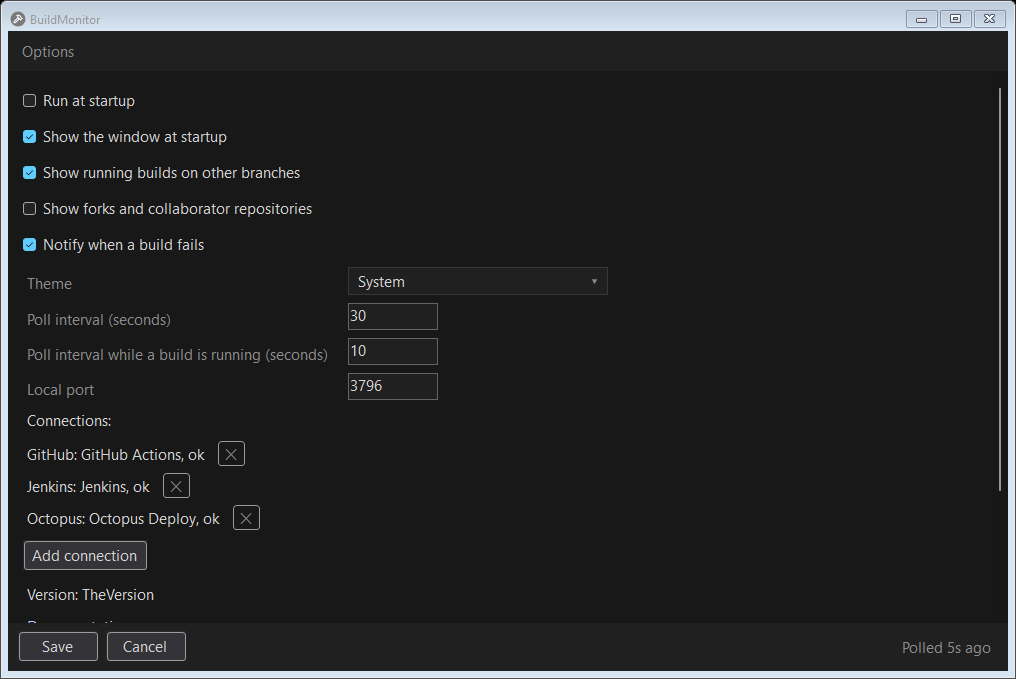
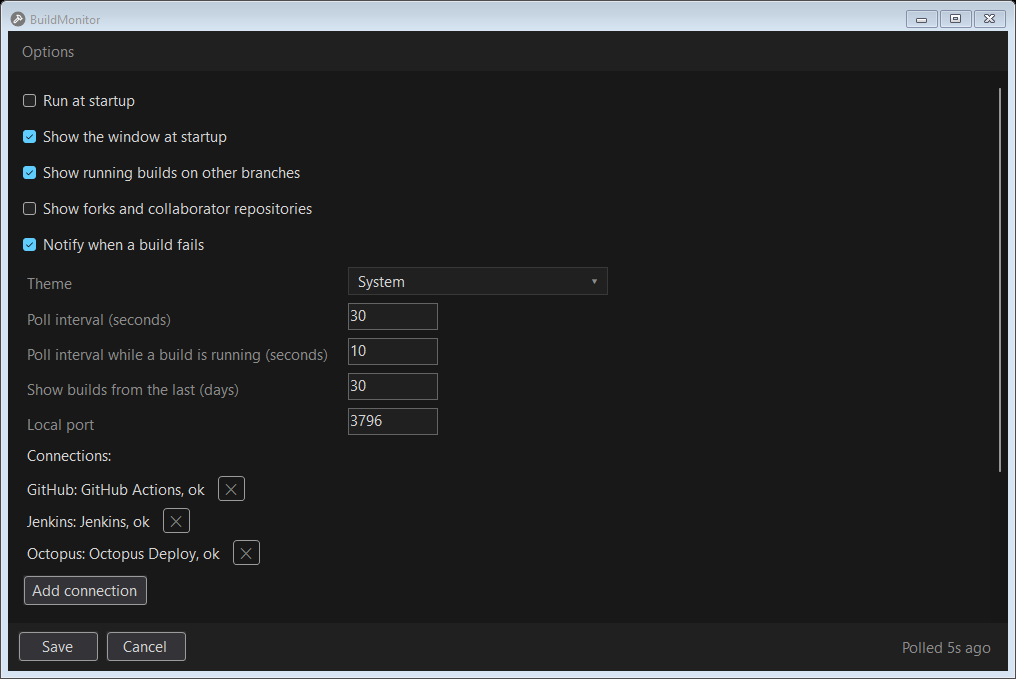
Show only builds from the last 30 days, with an option for how many
Finished builds older than the limit are left out; running and queued builds
always show. Options gains "Show builds from the last (days)", 1 to 365.

Where the service can filter by date the limit goes in the request, so a poll
returns less: GitHub (created), Azure DevOps (minTime), GitLab (updatedAfter,
updated_after over REST) and TeamCity (queuedDate). The rest drop older builds
as they arrive, which also covers a response served from a cached ETag. The date
sent is the start of a UTC day, so a URL and its ETag hold all day.

A settings file written before the option existed read it as 0, as the generated
reader sets a missing init property to its type's default, so it falls back to 30.

Changed region(s): [[0.0, 0.6186, 0.2441, 0.8969], [0.0305, 0.5567, 0.2441, 0.5876], [0.3356, 0.5567, 0.3967, 0.6495]]

diff --git a/src/BuildMonitor.Tests/PollerTests.cs b/src/BuildMonitor.Tests/PollerTests.cs
@@ -2,13 +2,18 @@ public class PollerTests
 {
     const string runsUrl = "https://api.github.com/repos/VerifyTests/DiffEngine/actions/runs?per_page=5";
 
+    // The poller asks for runs since the history cutoff, a date in the query, so a canned response
+    // is keyed by the path, which the handler falls back to, and a request is matched by its start.
+    static string Path(string url) =>
+        url[..url.IndexOf('?')];
+
     static FakeHttpHandler GitHubHandler() =>
         new FakeHttpHandler()
             .Get("https://api.github.com/user/repos?per_page=100&sort=pushed&affiliation=owner,organization_member&page=1",
                 """[{"full_name":"VerifyTests/DiffEngine","html_url":"https://github.com/VerifyTests/DiffEngine","archived":false,"disabled":false,"pushed_at":"2099-01-01T00:00:00Z"}]""")
             .Get("https://api.github.com/repos/VerifyTests/DiffEngine/actions/workflows?per_page=100",
                 """{"total_count":1,"workflows":[{"id":10,"name":"Test","path":".github/workflows/test.yml","state":"active"}]}""")
-            .Map("GET", runsUrl,
+            .Map("GET", Path(runsUrl),
                 """
                 {"total_count":2,"workflow_runs":[
                   {"id":500,"workflow_id":10,"run_number":2,"status":"in_progress","head_branch":"main","html_url":"https://github.com/x/500","created_at":"2026-01-01T11:56:00Z","updated_at":"2026-01-01T11:57:00Z","run_started_at":"2026-01-01T11:57:00Z","pull_requests":[]},
@@ -35,7 +40,8 @@ public class PollerTests
     public async Task ASuccessfulPollAppliesBuildsAndRecordsDurations()
     {
         var (host, secrets, history) = Setup();
-        var poller = new ConnectionPoller(Fixtures.GitHub.Id, host, secrets, history, GitHubHandler(), null);
+        // The runs are from the day of Fixtures.Now, so the clock is too, or they fall outside the history.
+        var poller = new ConnectionPoller(Fixtures.GitHub.Id, host, secrets, history, GitHubHandler(), null, () => Fixtures.Now);
 
         var health = await poller.PollOnce(Cancel.None);
 
@@ -64,15 +70,17 @@ public class PollerTests
     {
         var (host, secrets, history) = Setup();
         var handler = GitHubHandler();
-        var poller = new ConnectionPoller(Fixtures.GitHub.Id, host, secrets, history, handler, null);
+        var poller = new ConnectionPoller(Fixtures.GitHub.Id, host, secrets, history, handler, null, () => Fixtures.Now);
         await poller.PollOnce(Cancel.None);
 
         // An unchanged repository answers an empty 304; the rows come from the body the first poll kept.
-        handler.Map("GET", runsUrl, "", HttpStatusCode.NotModified);
+        handler.Map("GET", Path(runsUrl), "", HttpStatusCode.NotModified);
         var health = await poller.PollOnce(Cancel.None);
 
         await Assert.That(health).IsEqualTo(ConnectionHealth.Ok);
-        await Assert.That(handler.Requests[^1]).IsEqualTo($"GET {runsUrl}\n  If-None-Match: \"runs\"");
+        // The cutoff is a day, so the second poll asks for the same URL and revalidates it.
+        await Assert.That(handler.Requests[^1]).StartsWith($"GET {runsUrl}&created=");
+        await Assert.That(handler.Requests[^1]).EndsWith("\n  If-None-Match: \"runs\"");
         await Assert.That(host.State.Builds.Length).IsEqualTo(2);
     }
 
@@ -204,9 +212,9 @@ public class PollerTests
                 """{"total_count":1,"workflows":[{"id":1,"name":"Busy","path":".github/workflows/busy.yml","state":"active"}]}""")
             .Get("https://api.github.com/repos/VerifyTests/Quiet/actions/workflows?per_page=100",
                 """{"total_count":1,"workflows":[{"id":2,"name":"Quiet","path":".github/workflows/quiet.yml","state":"active"}]}""")
-            .Get(busyRuns,
+            .Get(Path(busyRuns),
                 """{"total_count":1,"workflow_runs":[{"id":10,"workflow_id":1,"run_number":5,"status":"in_progress","head_branch":"main","html_url":"https://github.com/x/10","created_at":"2026-01-01T11:59:00Z","updated_at":"2026-01-01T11:59:30Z","run_started_at":"2026-01-01T11:59:00Z","pull_requests":[]}]}""")
-            .Get(quietRuns,
+            .Get(Path(quietRuns),
                 """{"total_count":1,"workflow_runs":[{"id":20,"workflow_id":2,"run_number":3,"status":"completed","conclusion":"success","head_branch":"main","html_url":"https://github.com/x/20","created_at":"2025-12-31T12:00:00Z","updated_at":"2025-12-31T12:05:00Z","run_started_at":"2025-12-31T12:00:00Z","pull_requests":[]}]}""");
 
     static int Fetches(FakeHttpHandler handler, string url) =>
@@ -234,7 +242,7 @@ public class PollerTests
     public async Task AFailingRepositoryDoesNotHideTheOthers()
     {
         var (host, secrets, history) = Setup();
-        var handler = TwoRepositories().Map("GET", quietRuns, "boom", HttpStatusCode.InternalServerError);
+        var handler = TwoRepositories().Map("GET", Path(quietRuns), "boom", HttpStatusCode.InternalServerError);
         var poller = new ConnectionPoller(Fixtures.GitHub.Id, host, secrets, history, handler, null, () => Fixtures.Now);
 
         var health = await poller.PollOnce(Cancel.None);
@@ -248,7 +256,7 @@ public class PollerTests
     public async Task AFailingRepositoryBacksOffAlone()
     {
         var (host, secrets, history) = Setup();
-        var handler = TwoRepositories().Map("GET", quietRuns, "boom", HttpStatusCode.InternalServerError);
+        var handler = TwoRepositories().Map("GET", Path(quietRuns), "boom", HttpStatusCode.InternalServerError);
         var now = Fixtures.Now;
         var poller = new ConnectionPoller(Fixtures.GitHub.Id, host, secrets, history, handler, null, () => now);
         await poller.PollOnce(Cancel.None);

diff --git a/src/BuildMonitor.Core/Session/MonitorSession.cs b/src/BuildMonitor.Core/Session/MonitorSession.cs
@@ -357,6 +357,7 @@ static class MonitorSession
         values[FormFields.Theme] = settings.Theme.ToString();
         values[FormFields.PollInterval] = settings.PollIntervalSeconds.ToString();
         values[FormFields.RunningPollInterval] = settings.RunningPollIntervalSeconds.ToString();
+        values[FormFields.HistoryDays] = settings.HistoryDays.ToString();
         values[FormFields.Port] = settings.Port.ToString();
         return state with
         {
@@ -680,6 +681,10 @@ static class MonitorSession
     {
         var discovered = outcome.Pipelines.Select(_ => _.Id).ToHashSet();
         var previous = state.Builds.Where(_ => _.ConnectionId == connectionId).ToImmutableArray();
+        // Dropped here as well as left out of the request: for a service that can not filter by date,
+        // and for a response served from an ETag cached before the cutoff moved on.
+        var cutoff = HistoryCutoff.Of(now, state.Settings.HistoryDays);
+        var arrived = outcome.Builds.Where(_ => HistoryCutoff.Keeps(_, cutoff)).ToImmutableArray();
         var next = UpdateConnection(
             state,
             connectionId,
@@ -695,7 +700,7 @@ static class MonitorSession
         var notification = state.Notification;
         if (state.Settings.NotifyOnFailure)
         {
-            var news = outcome.Builds.Where(_ => !outcome.FirstFetch.Contains(_.PipelineId)).ToImmutableArray();
+            var news = arrived.Where(_ => !outcome.FirstFetch.Contains(_.PipelineId)).ToImmutableArray();
             notification = FailureDetector.Describe(FailureDetector.NewFailures(previous, news)) ?? notification;
         }
 
@@ -704,8 +709,8 @@ static class MonitorSession
             Builds =
             [
                 ..next.Builds.Where(_ => _.ConnectionId != connectionId),
-                ..previous.Where(_ => discovered.Contains(_.PipelineId) && !outcome.Fetched.Contains(_.PipelineId)),
-                ..outcome.Builds
+                ..previous.Where(_ => discovered.Contains(_.PipelineId) && !outcome.Fetched.Contains(_.PipelineId) && HistoryCutoff.Keeps(_, cutoff)),
+                ..arrived
             ],
             Notification = notification
         });

diff --git a/src/BuildMonitor.Core/Providers/GitLab/GitLabProvider.cs b/src/BuildMonitor.Core/Providers/GitLab/GitLabProvider.cs
@@ -68,6 +68,7 @@ sealed class GitLabProvider : ProviderBase
             chunk.Length.ToString(CultureInfo.InvariantCulture),
             "){nodes{id pipelines(first:",
             perPipeline.ToString(CultureInfo.InvariantCulture),
+            context.Since is { } since ? $",updatedAfter:\"{Iso(since)}\"" : "",
             "){nodes{",
             pipelineFields,
             "}}}}}");
@@ -106,10 +107,18 @@ sealed class GitLabProvider : ProviderBase
         return covered;
     }
 
+    /// <summary>
+    /// Updated rather than created, the one date both the GraphQL field and the REST listing take on
+    /// every supported GitLab, so a retry of an older pipeline still shows.
+    /// </summary>
+    static string Iso(DateTimeOffset since) =>
+        since.UtcDateTime.ToString("yyyy-MM-dd'T'HH:mm:ss'Z'", CultureInfo.InvariantCulture);
+
     static async Task<List<Build>> Rest(ProviderContext context, Pipeline pipeline, int perPipeline, Cancel cancel)
     {
         var builds = new List<Build>();
-        var runs = await context.Http.Get($"projects/{pipeline.Id}/pipelines?per_page={perPipeline}", GitLabContext.Default.ListGitLabPipeline, cancel);
+        var updated = context.Since is { } since ? $"&updated_after={Encode(Iso(since))}" : "";
+        var runs = await context.Http.Get($"projects/{pipeline.Id}/pipelines?per_page={perPipeline}{updated}", GitLabContext.Default.ListGitLabPipeline, cancel);
         foreach (var run in runs)
         {
             // The listing carries no timings; only a live run is worth the second call.

diff --git a/src/BuildMonitor.Core/Session/ScreenBuilder.cs b/src/BuildMonitor.Core/Session/ScreenBuilder.cs
@@ -224,8 +224,7 @@ static class ScreenBuilder
         var estimate = Estimator.Estimate(build, state.Medians);
         var (fraction, timing) = Progress.Compute(build, estimate, now);
         // Only the build that broke names anyone: on a pass or a run the name says nothing wrong.
-        var author = build.Status == BuildStatus.Failed &&
-                     build.Author is not null &&
+        var author = build is { Status: BuildStatus.Failed, Author: not null } &&
                      authors.TryGetValue(build.Author.Trim(), out var shown)
             ? shown
             : "";
@@ -382,6 +381,7 @@ static class ScreenBuilder
             new(FormFields.Theme, FieldKind.Select, "Theme", form.Value(FormFields.Theme), Options: Enum.GetNames<Theme>()),
             new(FormFields.PollInterval, FieldKind.Number, "Poll interval (seconds)", form.Value(FormFields.PollInterval)),
             new(FormFields.RunningPollInterval, FieldKind.Number, "Poll interval while a build is running (seconds)", form.Value(FormFields.RunningPollInterval)),
+            new(FormFields.HistoryDays, FieldKind.Number, "Show builds from the last (days)", form.Value(FormFields.HistoryDays), Hint: "Running and queued builds always show."),
             new(FormFields.Port, FieldKind.Number, "Local port", form.Value(FormFields.Port), Hint: "Used by the launcher and the MCP server. Takes effect after a restart."),
             new("connectionsLabel", FieldKind.Label, "Connections", "")
         };

diff --git a/src/BuildMonitor.Tests/HistoryCutoffTests.cs b/src/BuildMonitor.Tests/HistoryCutoffTests.cs
@@ -1,0 +1,29 @@
+public class HistoryCutoffTests
+{
+    static readonly DateTimeOffset now = new(2026, 9, 15, 16, 30, 0, TimeSpan.FromHours(10));
+
+    [Test]
+    public async Task StartOfTheUtcDay() =>
+        await Assert.That(HistoryCutoff.Of(now, 30)).IsEqualTo(new(2026, 8, 16, 0, 0, 0, TimeSpan.Zero));
+
+    [Test]
+    [Arguments("Succeeded", -40, false)]
+    [Arguments("Failed", -40, false)]
+    [Arguments("Succeeded", -10, true)]
+    [Arguments("Running", -40, true)]
+    [Arguments("Queued", -40, true)]
+    public async Task KeepsRecentAndActive(string name, int days, bool kept)
+    {
+        var status = Enum.Parse<BuildStatus>(name);
+        var at = now.AddDays(days);
+        var build = Build(status, at, status is BuildStatus.Running or BuildStatus.Queued ? null : at);
+        await Assert.That(HistoryCutoff.Keeps(build, HistoryCutoff.Of(now, 30))).IsEqualTo(kept);
+    }
+
+    [Test]
+    public async Task KeepsABuildWithNoTime() =>
+        await Assert.That(HistoryCutoff.Keeps(Build(BuildStatus.Succeeded, null, null), HistoryCutoff.Of(now, 30))).IsTrue();
+
+    static Build Build(BuildStatus status, DateTimeOffset? started, DateTimeOffset? finished) =>
+        new("connection", "pipeline", "build.yml", "repo", "main", "1", status, null, started, started, finished, null, "https://example.com/1", null, null, null, null, null, null, false, false, "");
+}

diff --git a/src/BuildMonitor.Core/Providers/TeamCity/TeamCityProvider.cs b/src/BuildMonitor.Core/Providers/TeamCity/TeamCityProvider.cs
@@ -42,8 +42,13 @@ sealed class TeamCityProvider : ProviderBase
     public override async Task<IReadOnlyList<Build>> FetchBuilds(ProviderContext context, IReadOnlyList<Pipeline> pipelines, int perPipeline, Cancel cancel)
     {
         var byType = pipelines.ToDictionary(_ => _.Id);
+        // Queued rather than started, which sinceDate counts from, so a build still in the queue is
+        // not left out. The + of the offset is escaped, or it arrives as a space.
+        var queued = context.Since is { } since
+            ? $",queuedDate:(date:{since.UtcDateTime.ToString("yyyyMMdd'T'HHmmss", CultureInfo.InvariantCulture)}%2B0000,condition:after)"
+            : "";
         var response = await context.Http.Get(
-            $"buildTypes?locator=affectedProject:(id:{Encode(Project(context))})&fields=buildType(id,builds($locator(branch:default:any,state:any,canceled:any,failedToStart:any,count:{perPipeline}),{buildFields}))",
+            $"buildTypes?locator=affectedProject:(id:{Encode(Project(context))})&fields=buildType(id,builds($locator(branch:default:any,state:any,canceled:any,failedToStart:any,count:{perPipeline}{queued}),{buildFields}))",
             TeamCityContext.Default.TeamCityBuildTypes,
             cancel);
         var builds = new List<Build>();

diff --git a/src/BuildMonitor.Core/Providers/AzureDevOps/AzureDevOpsProvider.cs b/src/BuildMonitor.Core/Providers/AzureDevOps/AzureDevOpsProvider.cs
@@ -52,8 +52,12 @@ sealed class AzureDevOpsProvider : ProviderBase
             var byDefinition = project.ToDictionary(_ => long.Parse(_.Id[(_.Id.LastIndexOf('/') + 1)..]));
             // Per definition rather than a total: $top filled with the busiest definitions and hid
             // the quiet ones of a project with more than a few dozen.
+            // Queue time, which queueTimeDescending orders by, and what minTime filters on under it.
+            var minTime = context.Since is { } since
+                ? $"&minTime={Encode(since.ToString("O", CultureInfo.InvariantCulture))}"
+                : "";
             var response = await context.Http.Get(
-                $"{Encode(project.Key)}/_apis/build/builds?definitions={string.Join(',', byDefinition.Keys)}&maxBuildsPerDefinition={perPipeline}&queryOrder=queueTimeDescending&{apiVersion}",
+                $"{Encode(project.Key)}/_apis/build/builds?definitions={string.Join(',', byDefinition.Keys)}&maxBuildsPerDefinition={perPipeline}&queryOrder=queueTimeDescending{minTime}&{apiVersion}",
                 AzureDevOpsContext.Default.AzureDevOpsListAzureDevOpsBuild,
                 cancel);
             var taken = new Dictionary<long, int>();

diff --git a/src/BuildMonitor.Tests/HistoryDaysOptionTests.cs b/src/BuildMonitor.Tests/HistoryDaysOptionTests.cs
@@ -1,0 +1,27 @@
+public class HistoryDaysOptionTests
+{
+    [Test]
+    public async Task DefaultsToThirty() =>
+        await Assert.That(new Settings().HistoryDays).IsEqualTo(30);
+
+    [Test]
+    [Arguments("0")]
+    [Arguments("366")]
+    [Arguments("soon")]
+    public async Task OutOfRangeIsRejected(string days)
+    {
+        var state = MonitorSession.FieldChanged(Fixtures.Options(), FormFields.HistoryDays, days);
+        var built = OptionsDraft.TryBuild(state.Form!, state.Settings, out _, out var error);
+        await Assert.That(built).IsFalse();
+        await Assert.That(error).IsEqualTo("The days of builds to show must be between 1 and 365.");
+    }
+
+    [Test]
+    public async Task SavedWithTheOtherOptions()
+    {
+        var state = MonitorSession.FieldChanged(Fixtures.Options(), FormFields.HistoryDays, "90");
+        var built = OptionsDraft.TryBuild(state.Form!, state.Settings, out var settings, out _);
+        await Assert.That(built).IsTrue();
+        await Assert.That(settings!.HistoryDays).IsEqualTo(90);
+    }
+}

diff --git a/src/BuildMonitor.Tests/Providers/AzureDevOpsProviderTests.cs b/src/BuildMonitor.Tests/Providers/AzureDevOpsProviderTests.cs
@@ -28,6 +28,16 @@ public class AzureDevOpsProviderTests
         await Verify(new { builds, handler.Requests });
     }
 
+    [Test]
+    public async Task HistoryLimitIsSentAsMinTime()
+    {
+        var handler = Handler()
+            .Get($"{organization}/Web/_apis/build/builds", """{"count":0,"value":[]}""");
+        var context = ProviderTestHelpers.Context("azure-devops", handler, scope: ("organization", "contoso")) with { Since = new DateTimeOffset(2026, 8, 16, 0, 0, 0, TimeSpan.Zero) };
+        await ProviderTestHelpers.DiscoverAndFetch("azure-devops", context);
+        await Assert.That(handler.Requests.Any(_ => _.Contains("queryOrder=queueTimeDescending&minTime=2026-08-16T00"))).IsTrue();
+    }
+
     static PollGroup Web() =>
         new("Web", [new("Web/1", "CI", "Web", "Web", "https://dev.azure.com/contoso/Web"), new("Web/2", "Nightly", "Web", "Web", "https://dev.azure.com/contoso/Web")]);
 

diff --git a/src/BuildMonitor.Core/Providers/GitHub/GitHubProvider.cs b/src/BuildMonitor.Core/Providers/GitHub/GitHubProvider.cs
@@ -160,8 +160,12 @@ sealed class GitHubProvider : ProviderBase
             {
                 var byWorkflow = repository.ToDictionary(_ => long.Parse(_.Id[(_.Id.LastIndexOf('/') + 1)..]));
                 var count = Math.Min(100, perPipeline * byWorkflow.Count);
+                // A day, not a moment, so the URL and the ETag cached against it hold between polls.
+                var created = context.Since is { } since
+                    ? $"&created=%3E%3D{since.UtcDateTime.ToString("yyyy-MM-dd", CultureInfo.InvariantCulture)}"
+                    : "";
                 var runs = await context.Http.Get(
-                    $"repos/{repository.Key}/actions/runs?per_page={count}",
+                    $"repos/{repository.Key}/actions/runs?per_page={count}{created}",
                     GitHubContext.Default.GitHubRuns,
                     token);
                 var builds = new List<Build>();

diff --git a/src/BuildMonitor.Core/Polling/HistoryCutoff.cs b/src/BuildMonitor.Core/Polling/HistoryCutoff.cs
@@ -1,0 +1,18 @@
+/// <summary>
+/// The oldest a finished build may be and still be shown: the start of the UTC day that many days
+/// back. A day rather than the exact moment, because the date goes into request URLs, and a date
+/// that moved on every poll would miss every ETag cached against the URL before it.
+/// </summary>
+static class HistoryCutoff
+{
+    public static DateTimeOffset Of(DateTimeOffset now, int days) =>
+        new(now.UtcDateTime.Date.AddDays(-days), TimeSpan.Zero);
+
+    /// <summary>
+    /// A running or queued build is kept whatever its age, as is one with no time to judge by.
+    /// </summary>
+    public static bool Keeps(Build build, DateTimeOffset cutoff) =>
+        build.IsActive ||
+        (build.Finished ?? build.Ordering) is not { } at ||
+        at >= cutoff;
+}

diff --git a/src/BuildMonitor.Tests/Providers/GitHubProviderTests.cs b/src/BuildMonitor.Tests/Providers/GitHubProviderTests.cs
@@ -39,6 +39,16 @@ public class GitHubProviderTests
     }
 
     [Test]
+    public async Task HistoryLimitIsSentAsCreated()
+    {
+        var handler = Handler()
+            .Get("https://api.github.com/repos/VerifyTests/DiffEngine/actions/runs", """{"total_count":0,"workflow_runs":[]}""");
+        var context = ProviderTestHelpers.Context("github", handler) with { Since = new DateTimeOffset(2026, 8, 16, 0, 0, 0, TimeSpan.Zero) };
+        await ProviderTestHelpers.DiscoverAndFetch("github", context);
+        await Assert.That(handler.Requests.Any(_ => _.Contains("/actions/runs?per_page=5&created=") && _.Contains("2026-08-16"))).IsTrue();
+    }
+
+    [Test]
     public async Task ForksAndCollaborationsAreDiscoveredWhenAskedFor()
     {
         var handler = new FakeHttpHandler()
